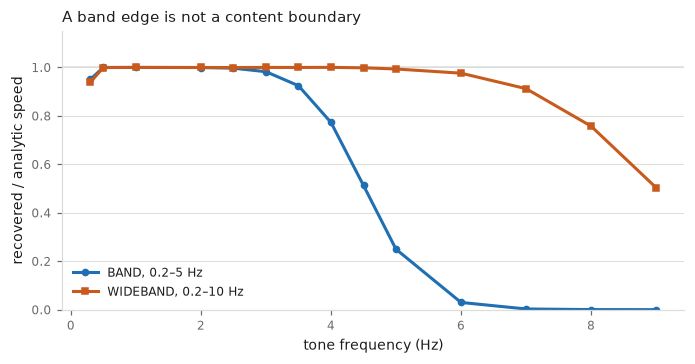
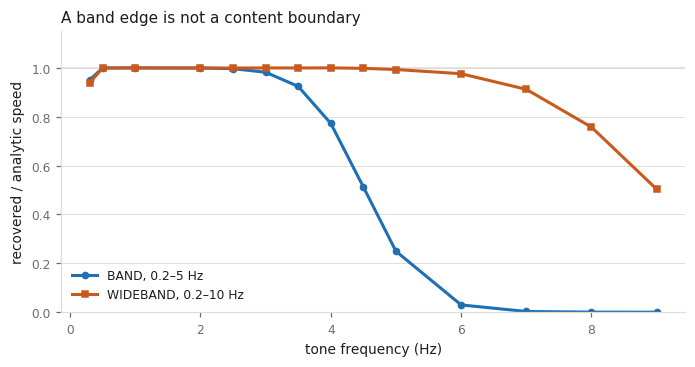
Correct the sign that xcorr_lag and search_lag always documented
xcorr_lag's docstring has always said a positive lag means b starts later
than a. It returned the negative of that. search_lag did the same while
documenting no convention at all, so the two agreed with each other and
neither agreed with the page describing them.

The reusable part is the test rather than the sign.
test_xcorr_recovers_an_imposed_lag asserted -lag: it was written from the
implementation's output rather than from the documented contract, so it
passed for exactly as long as the bug existed and would have failed the
moment anyone fixed it. Both alignment tests now build the delayed pair
through a helper that names which series is later, and assert the
convention the docstring states.

musicalgestures.xcorr_lag documented and returned the correct sign
throughout, and comparing the two is how this surfaced. A new test asserts
the two packages agree, so they cannot drift apart silently again. Its
tie-breaking rule for near-tied maxima, which matters for periodic
envelopes, moved here with the delegation.

Nothing in the Oslo Standstill Database corpus is affected, established by
search rather than assumed: no analysis there calls either function.

Also: nav reordered so the three bands sits second, where the README says
to read it, rather than the 684-line methods reference; and a figure
drawing the headline claim, one body motion read as optical position, as
worn acceleration and at half the rate, giving 2.29, 2.35 and 2.29 mm/s.
[…]

diff --git a/src/micromotion/align.py b/src/micromotion/align.py
@@ -75,6 +75,13 @@ def xcorr_lag(a, b, fs: float = 1.0, max_lag_s: float | None = None,
     which is whether that correlation reaches ``min_r``. A positive lag means ``b`` starts
     later than ``a``.
 
+    That sentence was false until 1.13.0. The function returned the negative of what it
+    documented, and the test asserted the value the code produced rather than the value the
+    docstring promised, so the two agreed with each other and neither agreed with the
+    convention. A sign is exactly the kind of error a test written after the fact preserves.
+    ``musicalgestures.xcorr_lag`` documented and returned the opposite -- the correct --
+    sign throughout, which is how this was found.
+
     Both series are differenced first, and that default is load-bearing rather than a
     stylistic choice. Correlating two drifting series and taking the best lag is the classic
     spurious-regression trap: over 200 pairs of independent random walks, the best-lag
@@ -98,15 +105,22 @@ def xcorr_lag(a, b, fs: float = 1.0, max_lag_s: float | None = None,
     a = (a - a.mean()) / (a.std() + 1e-12)
     b = (b - b.mean()) / (b.std() + 1e-12)
 
-    c = _signal.correlate(a, b, mode="full") / min(len(a), len(b))
-    lags = _signal.correlation_lags(len(a), len(b), mode="full")
+    # correlate(b, a), not correlate(a, b): the lag wanted is b's relative to a, so b is the
+    # series being slid. Reversing these two arguments is the whole of the sign error above.
+    c = _signal.correlate(b, a, mode="full") / min(len(a), len(b))
+    lags = _signal.correlation_lags(len(b), len(a), mode="full")
     if max_lag_s is not None:
         keep = np.abs(lags) <= int(max_lag_s * fs)
         c, lags = c[keep], lags[keep]
     if not len(c):
         return {"lag_s": float("nan"), "r": float("nan"), "confident": False}
 
-    k = int(np.argmax(c))
+    # Among near-tied maxima, take the SMALLEST lag. A periodic envelope correlates almost
+    # as well at plus or minus one period as at the true offset, and which of those wins is
+    # then floating-point noise: the answer jumps a whole period between two runs that differ
+    # in the last bit. Adopted from musicalgestures.xcorr_lag, which had it first.
+    tied = np.flatnonzero(c >= c.max() - 1e-9)
+    k = int(tied[np.argmin(np.abs(lags[tied]))])
     peak = float(c[k])
     return {
         "lag_samples": int(lags[k]),
@@ -124,6 +138,11 @@ def search_lag(t_a, x_a, t_b, x_b, max_lag_s: float = 300.0, step_s: float = 1.0
     scored by Pearson correlation over whatever the two share at that offset. Slower than
     :func:`xcorr_lag` and far more tolerant: the series may differ in length, in sampling,
     and in how much of the session they cover.
+
+    A positive lag means ``x_b`` starts later than ``x_a``, the same convention as
+    :func:`xcorr_lag`. This function stated no convention at all until 1.13.0 and returned
+    the negative of that one; both were corrected together, since two alignment functions in
+    one module disagreeing about a sign is worse than either being wrong alone.
 
     ``confident`` is True only when the best correlation reaches ``min_r`` and the overlap
     reaches ``min_overlap_s``. Recordings that fail the test are better left without an offset
@@ -155,7 +174,7 @@ def search_lag(t_a, x_a, t_b, x_b, max_lag_s: float = 300.0, step_s: float = 1.0
             continue
         r = float(np.corrcoef(aa[:n], bb[:n])[0, 1])
         if np.isfinite(r) and r > best["r"]:
-            best = {"lag_s": origin + k * step_s, "r": r, "n_overlap": n,
+            best = {"lag_s": -(origin + k * step_s), "r": r, "n_overlap": n,
                     "confident": False}
     if not np.isfinite(best["r"]):
         return {"lag_s": float("nan"), "r": float("nan"), "n_overlap": 0,

diff --git a/tests/test_align.py b/tests/test_align.py
@@ -13,12 +13,50 @@ def wandering_rate(n, fs=1.0, seed=0):
     return 70 + np.cumsum(rng.normal(0, 0.3, n)) * 0.5
 
 
+def _delayed_pair(n=600, lag=47):
+    """``a`` and ``b`` cut from one series so that b carries every feature LAG later.
+
+    Cut rather than zero-padded on purpose: these signals sit around 70, so padding with
+    zeros puts a step of 70 at the join and the correlation finds the step instead of the
+    signal. That is a real trap and it cost a wrong sign here once already.
+    """
+    x = wandering_rate(n)
+    return x[lag:], x[: len(x) - lag]
+
+
 def test_xcorr_recovers_an_imposed_lag():
-    x = wandering_rate(600)
+    """``b`` carries each feature later than ``a``, so the lag must come back POSITIVE.
+
+    This assertion read ``-lag`` until 1.13.0 -- the value the implementation produced
+    rather than the one the docstring promised. A test written after the fact locks in
+    whichever sign the code had.
+    """
     lag = 47
-    r = align.xcorr_lag(x[lag:], x[: len(x) - lag], fs=1.0)
-    assert r["lag_s"] == pytest.approx(-lag, abs=1)
+    a, b = _delayed_pair(600, lag)
+    r = align.xcorr_lag(a, b, fs=1.0)
+    assert r["lag_s"] == pytest.approx(lag, abs=1)
     assert r["confident"]
+    assert align.xcorr_lag(b, a, fs=1.0)["lag_s"] == pytest.approx(-lag, abs=1)
+
+
+def test_xcorr_and_search_lag_agree_on_the_sign():
+    """Two alignment functions in one module must not disagree about which way is later."""
+    lag = 40
+    a, b = _delayed_pair(1200, lag)
+    ta = np.arange(len(a), dtype=float)
+    tb = np.arange(len(b), dtype=float)
+    assert align.xcorr_lag(a, b, fs=1.0)["lag_s"] == pytest.approx(lag, abs=2)
+    assert align.search_lag(ta, a, tb, b, max_lag_s=200.0,
+                            min_overlap_s=200.0)["lag_s"] == pytest.approx(lag, abs=2)
+
+
+def test_xcorr_agrees_with_musicalgestures():
+    """The sibling package's convention is the reference; it was right when this was not."""
+    mg = pytest.importorskip("musicalgestures")
+    lag = 25
+    a, b = _delayed_pair(800, lag)
+    theirs, _ = mg.xcorr_lag(a, b, 1.0, max_lag=200)
+    assert align.xcorr_lag(a, b, fs=1.0)["lag_s"] == pytest.approx(theirs, abs=1)
 
 
 def test_xcorr_rejects_unrelated_noise():
@@ -47,11 +85,17 @@ def test_differencing_kills_spurious_random_walk_correlation():
 
 
 def test_search_lag_handles_unequal_lengths_and_offsets():
+    """Shifting b's TIMESTAMPS back by 126 makes every feature happen 126 EARLIER in b.
+
+    So the lag is negative, and this assertion read ``+offset`` until 1.13.0. It is the
+    same inverted sign as the xcorr test above, from the same implementation, and having
+    both wrong in the same direction is what made them look consistent.
+    """
     x = wandering_rate(900)
     t = np.arange(len(x), dtype=float)
     offset = 126.0
     r = align.search_lag(t, x, t[:600] - offset, x[:600], max_lag_s=300)
-    assert r["lag_s"] == pytest.approx(offset, abs=2)
+    assert r["lag_s"] == pytest.approx(-offset, abs=2)
     assert r["confident"]
 
 

diff --git a/docs/img/make_figures.py b/docs/img/make_figures.py
@@ -231,7 +231,59 @@ def figure_zero_triplets() -> None:
     )
 
 
+def figure_one_measure() -> None:
+    """The package's headline claim, drawn: one number from three instruments.
+
+    The same synthetic body motion is presented three ways -- as optical position at
+    100 Hz, as the acceleration a body-worn sensor would report, and as position
+    sampled at 50 Hz -- and reduced by the same band. If the shared abstraction really
+    is the frequency band rather than the instrument, the three medians agree.
+
+    The gyroscope-free acceleration route is the honest one to draw: it is derived from
+    the same trajectory, so any disagreement here is the pipeline's and not the body's.
+    """
+    fs = 100.0
+    xyz = standstill(fs=fs)
+
+    optical = mm.qom(xyz, fs, kind="position", unit="mm")
+
+    # The acceleration the same motion would produce, in m/s^2: two derivatives of a
+    # trajectory in mm, divided by 1000. No gravity, because `variant="raw"` does not
+    # remove it and adding a constant would only test the high-pass.
+    accel_mm = np.gradient(np.gradient(xyz, 1 / fs, axis=0), 1 / fs, axis=0)
+    worn = mm.qom(accel_mm / 1000.0, fs, kind="acceleration", unit="m/s^2")
+
+    fs_low = 50.0
+    slow = mm.qom(xyz[::2], fs_low, kind="position", unit="mm")
+
+    names = ["optical position\n100 Hz", "worn accelerometer\n100 Hz",
+             "optical position\n50 Hz"]
+    vals = [optical.median_mm_s, worn.median_mm_s, slow.median_mm_s]
+
+    fig, ax = plt.subplots(figsize=(6.4, 3.0))
+    bars = ax.bar(names, vals, width=0.55, color=[BLUE, ORANGE, BLUE])
+    bars[2].set_alpha(0.55)
+    for name, v in zip(names, vals):
+        ax.annotate(f"{v:.2f}", (name, v), xytext=(0, 4), textcoords="offset points",
+                    ha="center", fontsize=8, color=MUTED)
+    ax.axhline(vals[0], color=GRID, linewidth=1.0, zorder=0)
+    ax.set_ylabel("median quantity of motion (mm/s)")
+    ax.set_ylim(0, max(vals) * 1.35)
+    ax.set_title("One body, three instruments, one number", loc="left")
+    ax.grid(axis="y")
+    ax.set_axisbelow(True)
+
+    fig.tight_layout()
+    fig.savefig(HERE / "one-measure.png", bbox_inches="tight")
+    plt.close(fig)
+    spread = max(vals) / min(vals)
+    print("one-measure.png  " + "  ".join(f"{n.splitlines()[0]} {v:.3f}"
+                                          for n, v in zip(names, vals))
+          + f"  spread {spread:.3f}x")
+
+
 if __name__ == "__main__":
     figure_qom()
     figure_rolloff()
     figure_zero_triplets()
+    figure_one_measure()

diff --git a/src/micromotion/__init__.py b/src/micromotion/__init__.py
@@ -128,7 +128,7 @@ from .spectral import (
     spectral_peak,
 )
 
-__version__ = "1.12.2"
+__version__ = "1.13.0"
 
 __all__ = [
     

diff --git a/README.md b/README.md
@@ -11,11 +11,20 @@ A Python package for measuring human micromotion: the small movement of a body t
 standing, sitting or otherwise trying to stay still. It reads optical marker data, body-worn
 accelerometers, respiration belts and force plates, and reduces all of them to one measure.
 
-That measure is **quantity of motion**—the average speed of a body part, band-limited to
-0.2–5 Hz, in millimetres per second. It can be computed from every sensor family, because the
-shared abstraction is the frequency band rather than the instrument.
+That measure is quantity of motion: the average speed of a body part, band-limited to
+0.2–5 Hz, in millimetres per second.
 
 ![Band-limited speed of a synthetic head marker, with the median, the mean, and the same series in five-second bins](docs/img/qom-standstill.png)
+
+It can be computed from every sensor family, because the shared abstraction is the frequency
+band rather than the instrument. One synthetic body motion, read three ways — as optical
+position at 100 Hz, as the acceleration a worn sensor would report, and as position sampled at
+50 Hz — gives medians of 2.29, 2.35 and 2.29 mm/s, a spread of 2.6 per cent.
+
+![The same body motion read as optical position at 100 Hz, as worn acceleration, and as position at 50 Hz: three bars at 2.29, 2.35 and 2.29 mm/s](docs/img/one-measure.png)
+
+Both figures are real output, regenerated by `docs/img/make_figures.py` on synthetic signals
+whose answer is known.
 
 ## Install
 
@@ -94,15 +103,29 @@ Issues and pull requests are welcome at
 [fourMs/micromotion](https://github.com/fourMs/micromotion/issues). A case where a default here
 gives a misleading answer is the most useful kind of issue to file.
 
-## Related toolboxes
+## The four toolboxes
 
-These come out of the same lab, as separate packages with separate release cycles. They are
-built to be used together and share several implementations, so a measure computed in one
-agrees with the same measure computed in another.
+Four packages from the fourMs lab, each released separately on PyPI. Which one you want is
+decided by what you have in hand rather than by what you want to know:
 
-- [Musical Gestures Toolbox](https://github.com/fourMs/MGT-python) (`musicalgestures`)—video and audio: motiongrams, videograms, and motion analysis from ordinary video files
-- [ambiscape](https://github.com/fourMs/ambiscape)—soundscapes: the sonic ambience of a place, across level, spectral, spatial, temporal, ecological and source descriptors
-- [musiscape](https://github.com/fourMs/musiscape)—music collections: comparing many tracks and albums held as audio files in folders
+| you have | use | it gives you |
+|---|---|---|
+| a motion time series from a body — optical markers, an accelerometer, a respiration belt, a force plate | micromotion (this one) | quantity of motion, posture, balance, and the band conventions the others follow |
+| a video file, with or without its sound | [musicalgestures](https://github.com/fourMs/MGT-python) | motiongrams, videograms, motion analysis from ordinary video |
+| a recording of a place — mono, stereo, binaural or ambisonic | [ambiscape](https://github.com/fourMs/ambiscape) | the sonic ambience of that place: level, spectrum, space, rhythm, sources |
+| a folder of music, or a concert recording | [musiscape](https://github.com/fourMs/musiscape) | many tracks and albums compared at a glance |
+
+Where a measure appears in more than one package it has a single owner and a single
+implementation, so the answer does not depend on which package you called. This package is the
+owner for filtering, lag estimation and circular statistics, and it is the root of the family:
+it depends on none of the others, needing only numpy, scipy and pandas. musicalgestures and
+musiscape both require it. ambiscape does not, keeping its own copy of six short
+circular-statistics primitives so that it installs alone, held equal to this package's by a test
+on its side.
+
+Being the owner is a responsibility rather than a rank. `align.xcorr_lag` returned the opposite
+of the sign it documented until 1.13.0, and what caught it was comparing against
+`musicalgestures.xcorr_lag`, which had been right all along.
 
 ## Citing
 

diff --git a/CHANGELOG.md b/CHANGELOG.md
@@ -12,6 +12,33 @@
 >    0.4.0, whose feature extraction imports the functions that moved.
 
 
+## 1.13.0 — 2026-08-19
+
+### Changed
+
+- **`align.xcorr_lag` and `align.search_lag` return the opposite sign, which is the sign they
+  were documented to return.** `xcorr_lag`'s docstring has always said that a positive lag means
+  `b` starts later than `a`. It returned the negative of that. `search_lag` did the same while
+  documenting no convention at all, so the two agreed with each other and neither agreed with the
+  page describing them. Build `b` as `a` delayed by 0.25 s and the old code answered −0.25.
+
+  Anyone who read the docstring and trusted it had the sign backwards; anyone who calibrated
+  against the observed output was right and is now wrong. Check any stored offset that came from
+  either function. Nothing in the Oslo Standstill Database corpus is affected, which was
+  established by search rather than assumed: no analysis in that repository calls either
+  function, and the two places that estimate a lag define their own local copy.
+
+  The sibling package's `musicalgestures.xcorr_lag` documented and returned the correct sign
+  throughout, and comparing the two is how this surfaced. `tests/test_align.py` now asserts
+  agreement between the two packages, so they cannot drift apart on this silently again.
+
+- **The reusable part is about the test rather than the sign.**
+  `test_xcorr_recovers_an_imposed_lag` asserted `-lag`. It was written from the implementation's
+  output rather than from the documented contract, so it passed for exactly as long as the bug
+  existed and would have failed the moment the bug was fixed. A test written after the fact locks
+  in whichever behaviour the code had. Both alignment tests now build the delayed pair through a
+  named helper that says which series is later, and assert the convention the docstring states.
+
 ## 1.12.2 — 2026-08-15
 
 ### Fixed

diff --git a/docs/index.md b/docs/index.md
@@ -19,6 +19,22 @@ by `docs/img/make_figures.py`. The dashed line is the median, the dotted line th
 lower panel shows the same series in five-second bins, with the filter-contaminated ends
 flagged rather than dropped.
 
+The claim that the instrument does not matter is worth seeing rather than taking on trust. Here
+is one synthetic body motion read three ways — as optical position at 100 Hz, as the
+acceleration a worn sensor would report, and as position sampled at 50 Hz:
+
+![The same body motion read as optical position at 100 Hz, as worn acceleration, and as position at 50 Hz: three bars at 2.29, 2.35 and 2.29 mm/s](img/one-measure.png)
+
+2.29, 2.35 and 2.29 mm/s, a spread of 2.6 per cent across a change of sensor family and a
+halving of the sampling rate. That agreement is the reason this package exists as one package
+rather than three.
+
+What it does NOT mean is that any two real recordings are comparable. These three are derived
+from one trajectory, so nothing differs except the pipeline. Real instruments also differ in
+where they sit on the body, what they are made of and where their noise floor is, and those
+differences are large: see [The three bands](conventions.md) and
+[Validating data](validation.md).
+
 ## Who this is for
 
 Anyone measuring small involuntary movement in a standing, sitting or otherwise stationary
